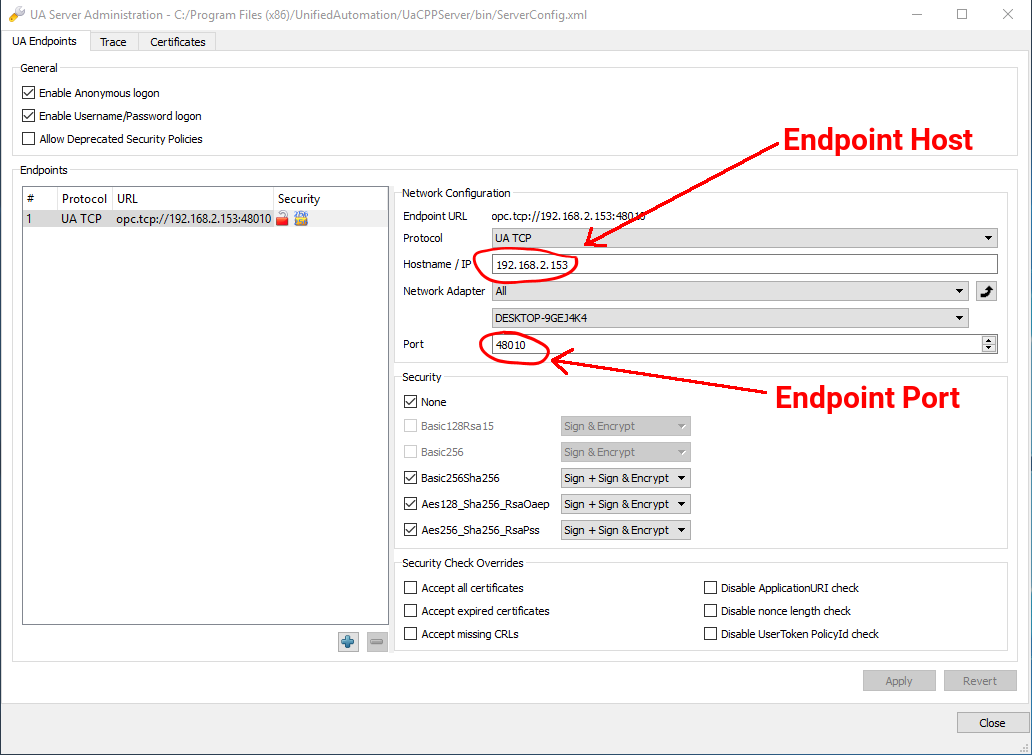
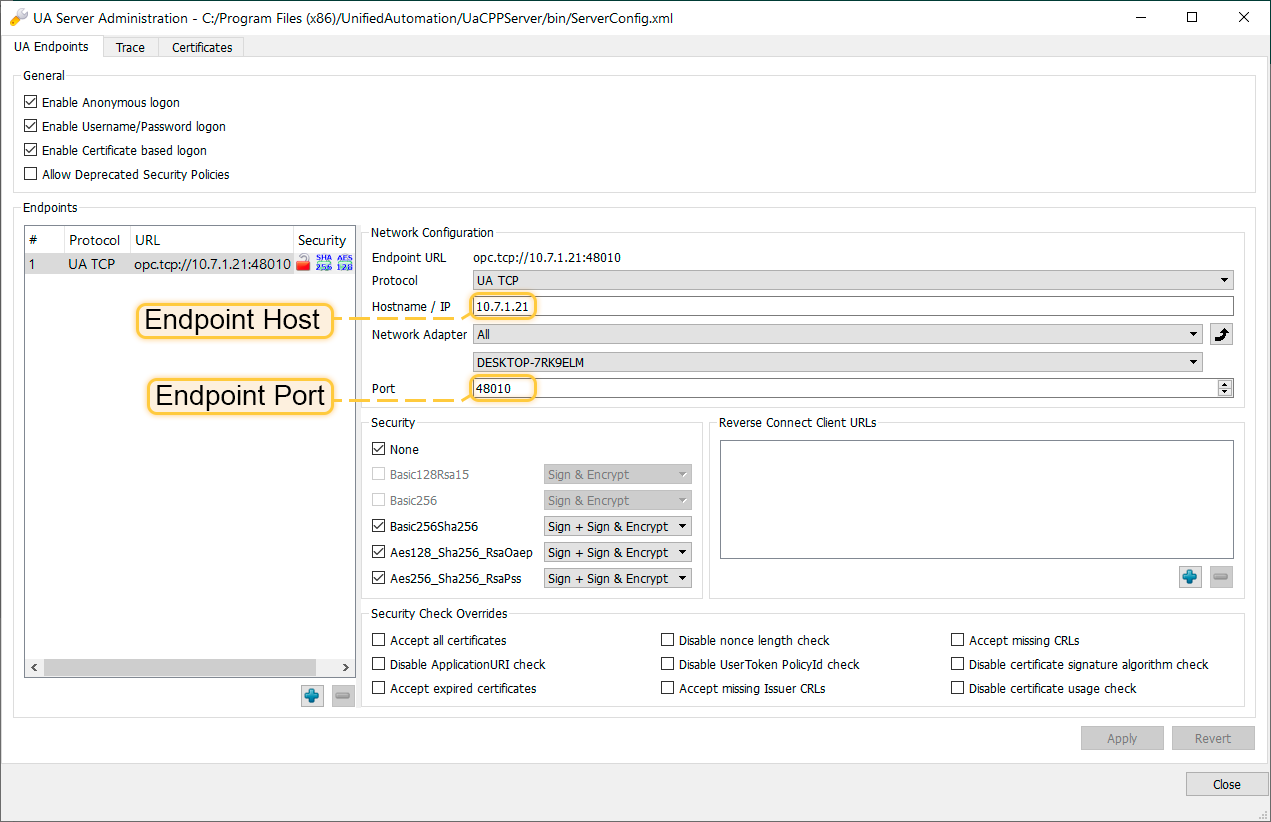
fixed text and add new screenshots

Changed region(s): [[0.0, 0.0, 1.0, 1.0], [0.7132, 0.1523, 0.9612, 0.2132], [0.6822, 0.2132, 0.7132, 0.2437]]

diff --git a/_includes/docs/pe/user-guide/integrations/opc-ua.md b/_includes/docs/pe/user-guide/integrations/opc-ua.md
@@ -8,43 +8,34 @@
 * TOC
 {:toc}
 
-
-## Overview
+# Overview
 
 OPC UA Integration allows you to stream data from the OPC UA server to ThingsBoard and converts the device payloads to the ThingsBoard format.
 
 <object width="100%" style="max-width: max-content;" data="/images/user-guide/integrations/opc-ua-integration.svg"></object>
 
-### Video tutorial
 
-See video tutorial below for step-by-step instruction how to setup OPC-UA Integration.
-
-<br/>
-<div id="video">  
-    <div id="video_wrapper">
-        <iframe src="https://www.youtube.com/embed/KK0gXGXFQ0E" frameborder="0" allowfullscreen></iframe>
-    </div>
-</div> 
-
-### OPC-UA Integration Tutorial
+# OPC-UA Integration Tutorial
 
 In this tutorial, we will configure the integration between ThingsBoard and OPC-UA
-to get the Airconditioners data from the [OPC UA C++ Demo Server](https://www.unified-automation.com/downloads/opc-ua-servers/opc-ua-c-demo-server.html)
+to get the Airconditioners data from the [OPC UA C++ Demo Server](https://www.unified-automation.com/downloads/opc-ua-servers.html)
 and allow the user to switch on/off any Airconditioner using the Integration downlink feature.
 
-#### Prerequisites
+## Prerequisites
 
-- Download and install the [OPC UA C++ Demo Server](https://www.unified-automation.com/downloads/opc-ua-servers/opc-ua-c-demo-server.html).
-- After installation, launch the **UA Admin Dialog**.
-- Verify that the **Endpoint URL** is set correctly and remember the values of **Endpoint Host** and **Endpoint Port**. These values will be needed during the OPC-UA Integration setup.
+- Download and install the [OPC UA C++ Demo Server](https://www.unified-automation.com/downloads/opc-ua-servers.html)
+- After installation, launch the **UA Admin Dialog**
+- Verify that the **Endpoint URL** is set correctly and remember the values of **Endpoint Host** and **Endpoint Port**. These values will be needed during the OPC-UA Integration setup
 
-![image](/images/user-guide/integrations/opc-ua/opc-ua-server-config.png)
+![image](/images/user-guide/integrations/opc-ua/opc-ua-server-config-1.png)
 
-- Launch the **UaCPPServer**. The console dialog will open showing the server endpoints URLs.
+- Launch the **UaCPPServer**. The console dialog will open showing the server endpoints URLs
 
-#### ThingsBoard setup
+![image](/images/user-guide/integrations/opc-ua/opc-ua-server-config-2.png)
 
-##### Uplink Data Converter
+## ThingsBoard setup
+
+### Uplink Data Converter
 
 First, we need to create the Uplink Data converter that will be used for receiving the messages from the OPC UA server. The converter should transform the incoming payload into the required message format.
 The message must contain the **deviceName** and **deviceType**. These fields are used to submit the data to the correct device. If a device cannot not be found, a new device will be created.
@@ -75,8 +66,8 @@ However, you can use another mapping in your specific use cases.
 Also, we will retrieve the values of the **temperature**, **humidity** and **powerConsumption** fields and use them as device telemetries.
 
 Go to the **Data Converters** and create a new **uplink** Converter using this function:
-{% highlight javascript %}
 
+```ruby
 var data = decodeToJson(payload);
 var deviceName = metadata['opcUaNode_name'];
 var deviceType = 'airconditioner';
@@ -117,11 +108,12 @@ function decodeToJson(payload) {
 }
 
 return result;
-{% endhighlight %}
+```
+{: .copy-code}
 
-![image](/images/user-guide/integrations/opc-ua/uplink-converter.png)
+![image](/images/user-guide/integrations/opc-ua/opc-ua-uplink-converter.png)
 
-##### Downlink Data Converter
+### Downlink Data Converter
 
 For sending Downlink messages from the Thingsboard to the OPC UA node, we need to define a
 downlink Converter.
@@ -149,7 +141,7 @@ downlink Converter.
 
 Go to **Data Converters** and create a new **downlink** Converter using this function:
 
-{% highlight javascript %}
+```ruby
 var data = {
     writeValues: [],
     callMethods: []
@@ -174,24 +166,30 @@ var result = {
 };
 
 return result;
-{% endhighlight %}
+```
+{: .copy-code}
 
 This converter will process the RPC command to the device using the method **setState**
 and a boolean **params** value to call the 'Start' or 'Stop' method of the Airconditioner.
 
 Destination node is detected using the **deviceName** field of the incoming message metadata.
 
-![image](/images/user-guide/integrations/opc-ua/downlink-converter.png)
+![image](/images/user-guide/integrations/opc-ua/opc-ua-downlink-converter.png)
 
-##### OPC-UA Integration
+### OPC-UA Integration
 
 Next, we will create Integration with OPC UA server inside the ThingsBoard.
 Open the **Integrations** section and add a new Integration with a type **OPC-UA**
+
+Specify such parameters:
 
 - Name: OPC-UA Airconditioners
 - Type: OPC-UA
 - Uplink data converter: Airconditioner Uplink
 - Downlink data converter: Airconditioner Downlink
+
+![image](/images/user-guide/integrations/opc-ua/opc-ua-integration-1.png)
+
 - Application name: \<empty\> (client application name)
 - Application uri: \<empty\> (client application uri)
 - Host: **Endpoint Host** (see [Prerequisites](#prerequisites))
@@ -200,77 +198,97 @@ Open the **Integrations** section and add a new Integration with a type **OPC-UA
 - Timeout in milliseconds: 5000 (the timeout, in milliseconds, before failing a request to OPC UA server)
 - Security: None (can be *Basic128Rsa15 / Basic256 / Basic256Sha256 / None*)
 - Identity: Anonymous (can be *Anonymous / Username*)
+
+![image](/images/user-guide/integrations/opc-ua/opc-ua-integration-2.png)
+
 - Mapping:
-     - Device Node Pattern: `Objects\.BuildingAutomation\.AirConditioner_\d+$` (regular expression used to match scanned OPC UA Node FQNs/IDs to device name.)
      - MappingType: Fully Qualified Name (can be *Fully Qualified Name* / *ID*)
+     - Device Node Pattern: `Objects\.BuildingAutomation\.AirConditioner_\d+$` (regular expression used to match scanned OPC UA Node FQNs/IDs to device name.)
      - Subscription tags (list of node tags (**Path**) to subscribe with mappings to keys (**Key**) used in the output message):
         - state - State
         - temperature - Temperature
         - humidity - Humidity
         - powerConsumption - PowerConsumption
 
-![image](/images/user-guide/integrations/opc-ua/opc-ua-integration-mapping.png)
+![image](/images/user-guide/integrations/opc-ua/opc-ua-integration-3.png)
 
-##### Airconditioners Rule Chain
+### Airconditioners Rule Chain
 
 To demonstrate OPC-UA Integration and Rule Engine capabilities, we will create a separate Rule Chain
 to process the uplink and downlink messages related to the OPC-UA Integration.
 
 Let´s create the **Airconditioners** Rule Chain.
 
- - Download the [**airconditioners.json**](/docs/user-guide/resources/airconditioners.json) file.
- - To import this JSON file, click the `+` button at the bottom right corner of the **Rule Chains** page and select the **Import rule chain**.
- - double-click on the **Airconditioners** integration downlink node and select **OPC-UA Airconditioners** in the **Integrations** field.
- - Apply and save all changes.
+ - Download the [**airconditioners.json**](/docs/user-guide/resources/airconditioners.json) file
+ - Go to the **Rule Chain** tab
+ - To import this JSON file, click the `+` button at the bottom right corner of the **Rule Chains** page and select the **Import rule chain**
+ - double-click on the **Airconditioners** integration downlink node and select **OPC-UA Airconditioners** in the **Integrations** field
+ - Apply and save all changes
+
+{% include images-gallery.html imageCollection="create_rule_chain" %}
 
 
-![image](/images/user-guide/integrations/opc-ua/airconditioners-rule-chain.png)
-![image](/images/user-guide/integrations/opc-ua/airconditioners-integration-downlink.png)
-
- - Open and edit the **Root Rule Chain**.
- - Add the **rule chain** node.
+ - Open and edit the **Root Rule Chain**
+ - Add the **rule chain** node
  - Select the **Airconditioners** Rule Chain and connect it to the Message Type Switch Node using the following link labels:
-**Attributes Updated** / **Post telemetry** / **RPC Request to Device**.
+**Attributes Updated** / **Post telemetry** / **RPC Request to Device**
 
-![image](/images/user-guide/integrations/opc-ua/root-rule-chain.png)
+{% include images-gallery.html imageCollection="create_rule_chain_2" %}
 
-##### Airconditioners Dashboard
+### Devices
+
+To verify our integration:
+
+ - Go to the **Device groups** page. You will see the **Airconditioners** group. Open this group
+
+![image](/images/user-guide/integrations/opc-ua/opc-ua-device-group-1.png)
+
+ - When you open this group, you will see the 10 Airconditioner devices
+
+![image](/images/user-guide/integrations/opc-ua/opc-ua-device-group-2.png)
+
+ - Open the details of one of the Airconditioners and select the **Latest Telemetry** tab
+ - You will see that telemetry values are frequently updated
+
+![image](/images/user-guide/integrations/opc-ua/opc-ua-device-group-3.png)
+
+### Airconditioners Dashboard
 
 To visualize the Airconditioners data and test RPC commands, we will create the **Airconditioners** dashboard.
 
- - Download the [**airconditioners_dashboard.json**](/docs/user-guide/resources/airconditioners_dashboard.json) file.
- - To import this JSON file, click the `+` button at the bottom right corner of the **Dashboards** page and select **Import dashboard**.
+- Download the [**airconditioners_dashboard.json**](/docs/user-guide/resources/airconditioners_dashboard.json) file
+- Go to the **Dashboard groups** tab
+- To import this JSON file, click the `+` button at the bottom right corner of the **Dashboards** page and select **Import dashboard**
 
-#### Validation
+![image](/images/user-guide/integrations/opc-ua/opc-ua-dashboard-1.png)
 
-To verify our integration,
+ - Open the **Airconditioners** dashboard
+ - You will see the telemetry till the last minute from all the 10 airconditioners
+ - Open the Airconditioner details page by clicking on the details button in the Entities widget
 
- - Go to the **Device groups** page. You will see the **Airconditioners** group.
- - When you open this group, you will see the 10 Airconditioner devices.
+![image](/images/user-guide/integrations/opc-ua/opc-ua-dashboard-2.png)
 
-![image](/images/user-guide/integrations/opc-ua/airconditioners-group.png)
+ - You will find the Airconditioner status light green. Try to switch off the airconditioner by clicking on the **On/Off Round switch**
 
- - Open the details of one of the Airconditioners and select the **Latest Telemetry** tab.
- - You will see that telemetry values are frequently updated.
+![image](/images/user-guide/integrations/opc-ua/opc-ua-dashboard-4.png)
 
-![image](/images/user-guide/integrations/opc-ua/airconditioner-latest-telemetry.png)
+ - The Airconditioner status light will turn into grey, the temperature will start rising, the humidity will start increasing and the power consumption will stop
 
- - Go to **Dashboards** and open the **Airconditioners** dashboard.
- - You will see the telemetry till the last minute from all the 10 airconditioners.
+![image](/images/user-guide/integrations/opc-ua/opc-ua-dashboard-5.png)
 
-![image](/images/user-guide/integrations/opc-ua/airconditioners-dashboard.png)
+# Video tutorial
 
- - Open the Airconditioner details page by clicking on the details button in the Entities widget.
+See video tutorial below for step-by-step instruction how to setup OPC-UA Integration.
 
-![image](/images/user-guide/integrations/opc-ua/airconditioners-dashboard-click-details.png)
+<br/>
+<div id="video">  
+    <div id="video_wrapper">
+        <iframe src="https://www.youtube.com/embed/KK0gXGXFQ0E" frameborder="0" allowfullscreen></iframe>
+    </div>
+</div> 
 
- - You will find the Airconditioner status light green.
- - Try to switch off the airconditioner by clicking on the **On/Off Round switch**.
- - The Airconditioner status light will turn into grey, the temperature will start rising, the humidity will start increasing and the power consumption will stop.
-
-![image](/images/user-guide/integrations/opc-ua/airconditioners-dashboard-details.png)
-
-## See also
+<br/>
+# See also
 
 - [Integration Overview](/docs/{{peDocsPrefix}}user-guide/integrations/)
 - [Uplink Converters](/docs/{{peDocsPrefix}}user-guide/integrations/#uplink-data-converter)
@@ -278,6 +296,6 @@ To verify our integration,
 - [Rule Engine](/docs/{{docsPrefix}}user-guide/rule-engine-2-0/re-getting-started/)
 
   
-## Next steps
+# Next steps
 
 {% assign currentGuide = "ConnectYourDevice" %}{% include templates/multi-project-guides-banner.md %}

diff --git a/docs/user-guide/integrations/opc-ua.md b/docs/user-guide/integrations/opc-ua.md
@@ -1,7 +1,26 @@
 ---
 layout: docwithnav-pe
 title: OPC-UA Integration
-description: OPC-UA Integration Guide 
+description: OPC-UA Integration Guide
+create_rule_chain:
+    0:
+        image: /images/user-guide/integrations/opc-ua/opc-ua-rule-chain-1.png
+    1:
+        image: /images/user-guide/integrations/opc-ua/opc-ua-rule-chain-2.png
+    2:
+        image: /images/user-guide/integrations/opc-ua/opc-ua-rule-chain-3.png
+    3:
+        image: /images/user-guide/integrations/opc-ua/opc-ua-rule-chain-4.png
+
+create_rule_chain_2:
+    0:
+        image: /images/user-guide/integrations/opc-ua/opc-ua-rule-chain-5.png
+    1:
+        image: /images/user-guide/integrations/opc-ua/opc-ua-rule-chain-6.png
+    2:
+        image: /images/user-guide/integrations/opc-ua/opc-ua-rule-chain-7.png
+    3:
+        image: /images/user-guide/integrations/opc-ua/opc-ua-rule-chain-8.png
 
 ---
 {% assign docsPrefix = "pe/" %}
